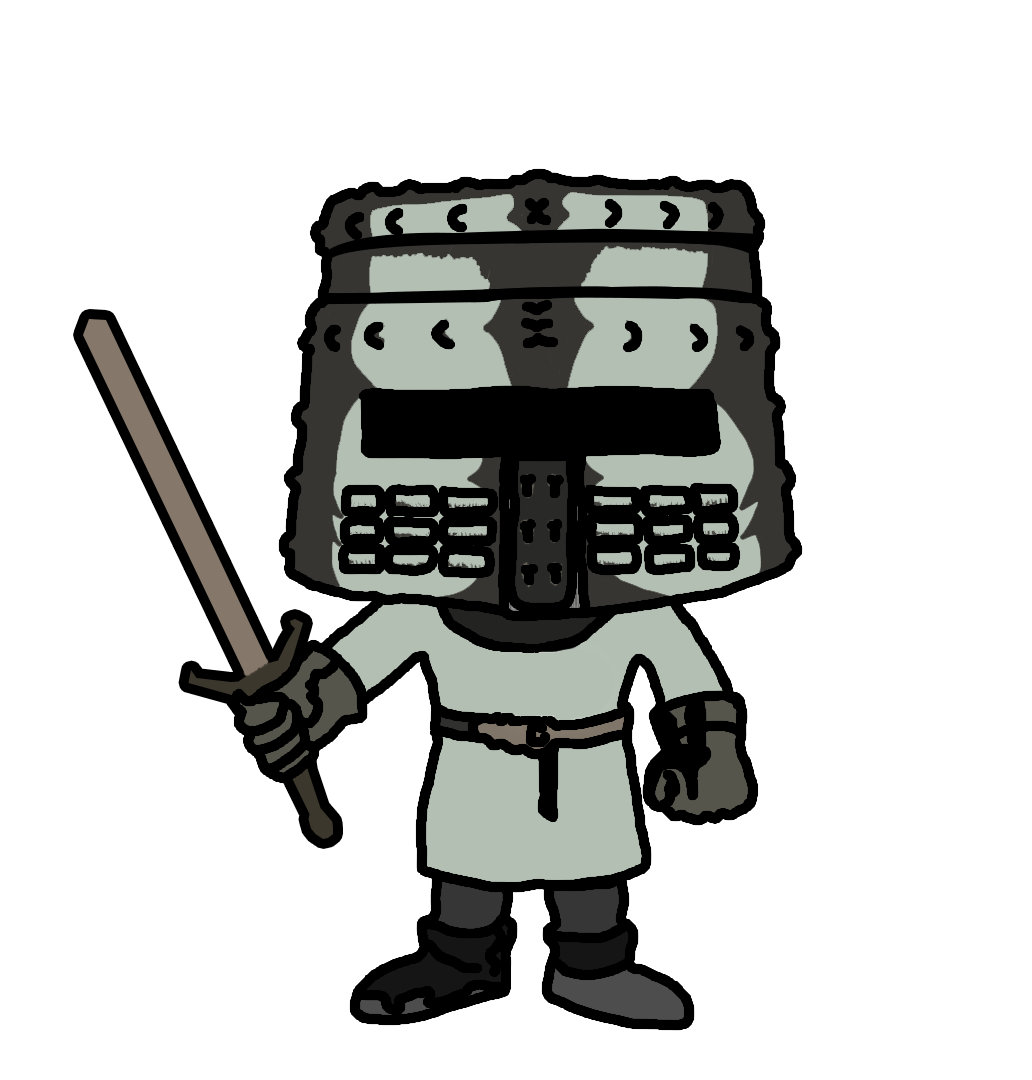
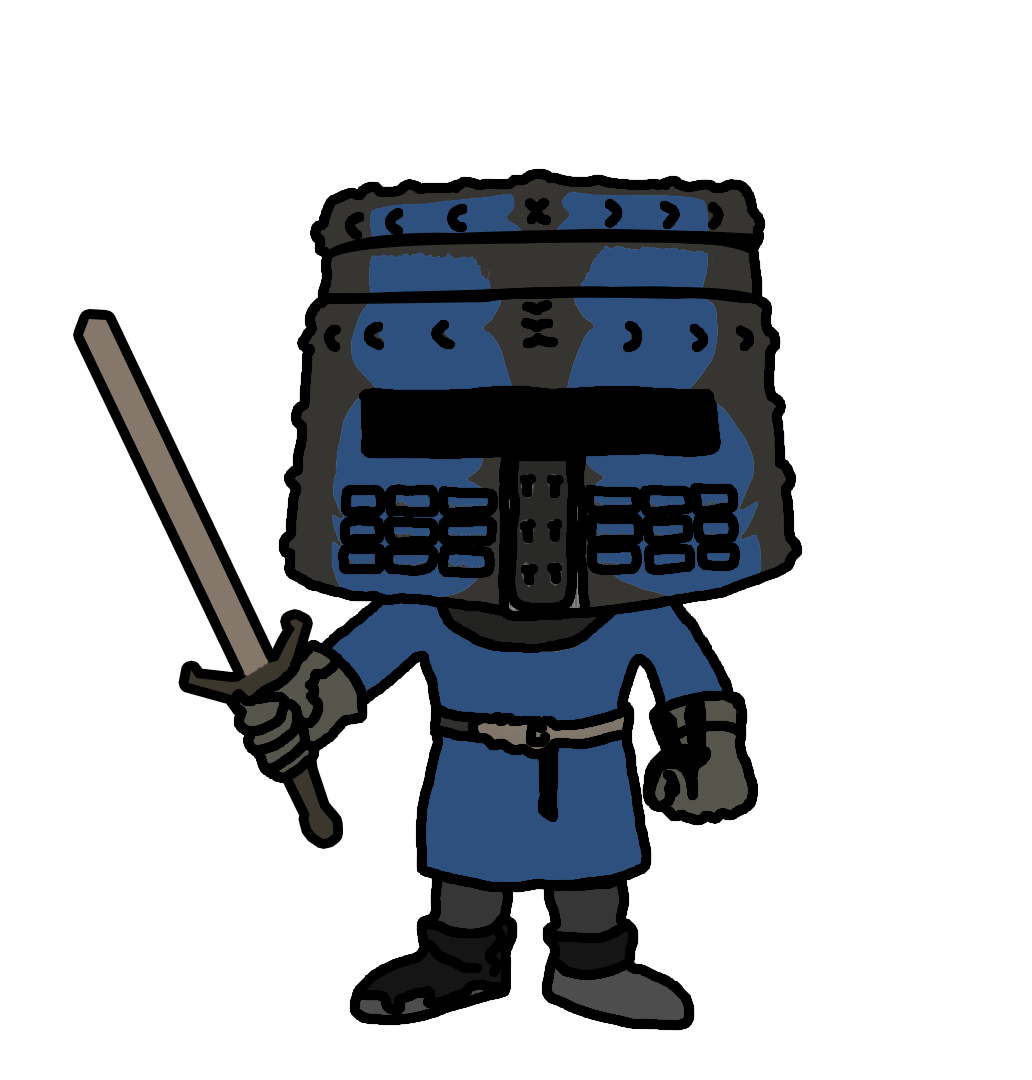
Cambios en colores de jugadores

Changed region(s): [[0.3101, 0.1833, 0.7442, 0.825], [0.5271, 0.1528, 0.7132, 0.3667]]

diff --git a/ConquestUnit/ConquestUnit/Views/ConquestUnitGame.xaml b/ConquestUnit/ConquestUnit/Views/ConquestUnitGame.xaml
@@ -410,7 +410,7 @@
                 <!---->
                 
                 <!--BATALLA-->
-                <Grid x:Name="BatallaGrid" HorizontalAlignment="Right" Height="566" Margin="0,0,-1180,-646" VerticalAlignment="Bottom" Width="1090" d:IsHidden="False">
+                <Grid x:Name="BatallaGrid" HorizontalAlignment="Right" Height="566" Margin="0,0,-1180,-646" VerticalAlignment="Bottom" Width="1090" d:IsHidden="True">
                     <Grid.RowDefinitions>
                         <RowDefinition Height="15*"/>
                         <RowDefinition Height="268*"/>

diff --git a/ConquestUnit/Util/Constantes.cs b/ConquestUnit/Util/Constantes.cs
@@ -23,15 +23,15 @@ namespace Util
         public static string MAPA_CHINA = "CHINA";
 
         #region Color Jugadores
-        public static string ColorJug1 = "#FFB81010";
-        public static string ColorJug2 = "#FF508B10";
-        public static string ColorJug3 = "#FF2E507E";
-        public static string ColorJug4 = "#FFBBC60E";
+        public static string ColorJug1 = "FFB81010";
+        public static string ColorJug2 = "FF508B10";
+        public static string ColorJug3 = "FF2E507E";
+        public static string ColorJug4 = "FFBBC60E";
 
-        public static string ColorJug1Inactivo = "#AFB81010";
-        public static string ColorJug2Inactivo = "#AF508B10";
-        public static string ColorJug3Inactivo = "#AF2E507E";
-        public static string ColorJug4Inactivo = "#AFBBC60E";
+        public static string ColorJug1Inactivo = "AFB81010";
+        public static string ColorJug2Inactivo = "AF508B10";
+        public static string ColorJug3Inactivo = "AF2E507E";
+        public static string ColorJug4Inactivo = "AFBBC60E";
         #endregion
 
         public static string ColorCorrecto = "#FF00FF00";

diff --git a/ConquestUnit/Util/Convertidor.cs b/ConquestUnit/Util/Convertidor.cs
@@ -113,10 +113,10 @@ namespace Util
 
         public static SolidColorBrush GetSolidColorBrush(string hex)
         {
-            hex = hex.Replace("#", string.Empty);
+            //hex = hex.Replace("#", string.Empty);
             byte a = (byte)(Convert.ToUInt32(hex.Substring(0, 2), 16));
             byte r = (byte)(Convert.ToUInt32(hex.Substring(2, 2), 16));
-            byte g = (byte)(Convert.ToUInt32(hex.Substring(3, 2), 16));
+            byte g = (byte)(Convert.ToUInt32(hex.Substring(4, 2), 16));
             byte b = (byte)(Convert.ToUInt32(hex.Substring(6, 2), 16));
             SolidColorBrush myBrush = new SolidColorBrush(Windows.UI.Color.FromArgb(a, r, g, b));
             return myBrush;

diff --git a/ConquestUnit/ConquestUnit/App.xaml.cs b/ConquestUnit/ConquestUnit/App.xaml.cs
@@ -103,7 +103,7 @@ namespace ConquestUnit
                     }
                     else
                     {
-                        rootFrame.Navigate(typeof(MesaEnEspera), e.Arguments);
+                        rootFrame.Navigate(typeof(MenuPrincipal), e.Arguments);
                     }
                 }
                 // Ensure the current window is active
